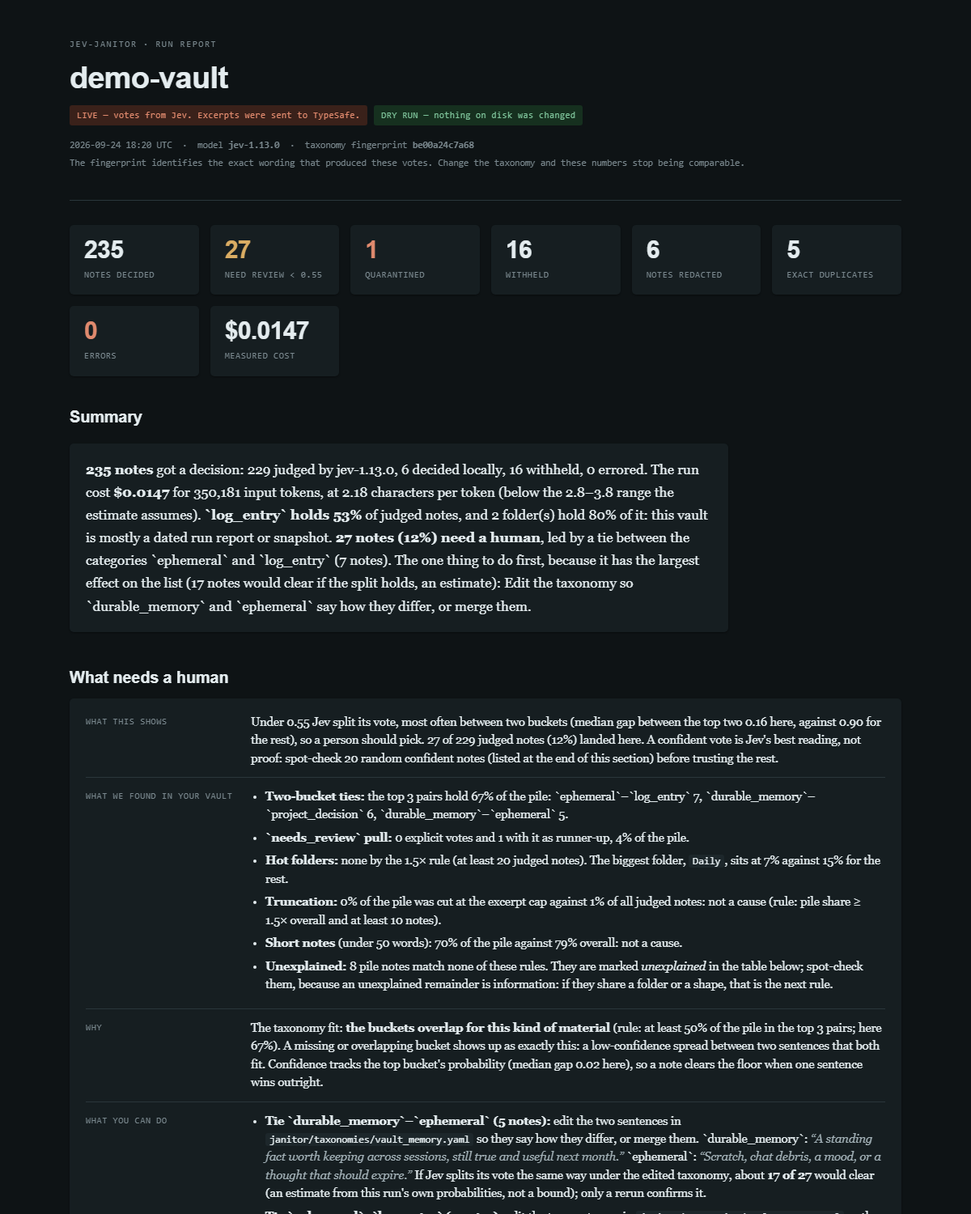
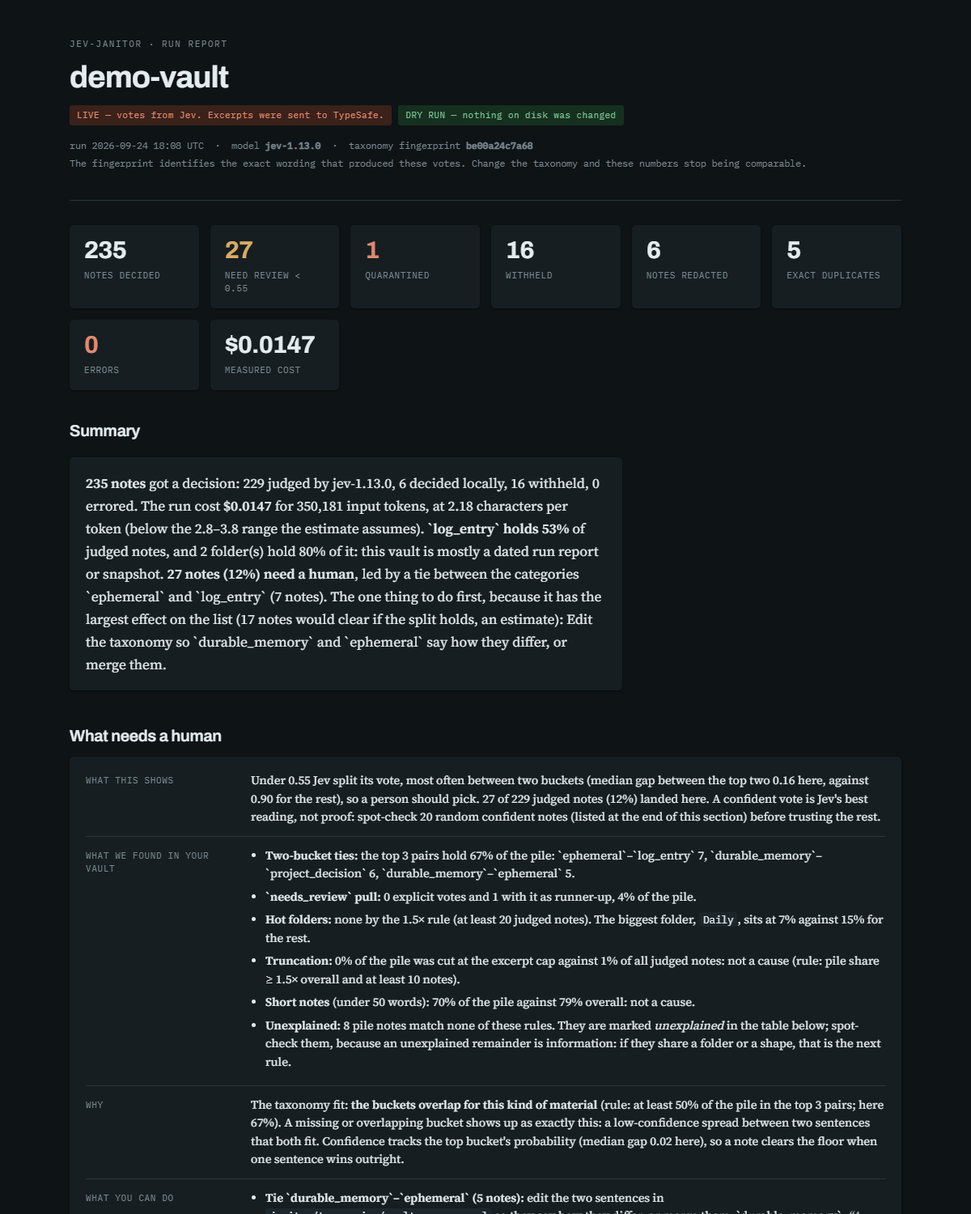
jev-the-janitor 0.5.1: the report runs on Python 3.11 again
0.5.0's report module put a backslash inside an f-string replacement field,
which Python accepts only from 3.12, so on 3.11 (the declared floor) --html
raised a SyntaxError and the test suite failed. The scanner itself was
unaffected: the CLI imports the report only when --html is given. The chips
are now built outside the f-string, and a new test checks every f-string in
the package and tests against 3.11's rules (no backslash, comment or reused
enclosing quote inside a replacement field) on any interpreter.

The card's header now shows the run's own time, taken from the rows' stamps
and labelled as such, instead of the time the page was rendered. The demo
card and screenshot were re-rendered from the same committed run.

No change to what is sent. STATE_VERSION 14, fingerprint unchanged.

diff --git a/examples/demo-vault-run/report.html b/examples/demo-vault-run/report.html
@@ -121,7 +121,7 @@ footer{margin-top:50px;padding-top:20px;border-top:1px solid var(--rule);font-fa
   <h1>demo-vault</h1>
   <div class="chips"><span class="chip live">LIVE — votes from Jev. Excerpts were sent to TypeSafe.</span><span class="chip ok">DRY RUN — nothing on disk was changed</span></div>
   <p class="meta">
-    2026-09-24 18:20 UTC &nbsp;·&nbsp; model <strong>jev-1.13.0</strong> &nbsp;·&nbsp; taxonomy fingerprint <strong>be00a24c7a68</strong><br>
+    run 2026-09-24 18:08 UTC &nbsp;·&nbsp; model <strong>jev-1.13.0</strong> &nbsp;·&nbsp; taxonomy fingerprint <strong>be00a24c7a68</strong><br>
     The fingerprint identifies the exact wording that produced these votes. Change the taxonomy and these numbers stop being comparable.
   </p>
 </header>
@@ -383,7 +383,7 @@ footer{margin-top:50px;padding-top:20px;border-top:1px solid var(--rule);font-fa
         <div class="barlabel"><span class="bname">junk</span><span class="bnote">empty, boilerplate, noise</span></div>
         <div class="bartrack"><div class="barfill" style="width:4.13%"></div></div>
         <div class="barval">5</div>
-      </div></div></section><section id='membrane'><h2>The membrane</h2><div class="explain"><div class="ex"><span class="exk">What this shows</span><div class="exv">What the run refused to send, which redaction patterns fired on what it did send, and which notes were quarantined. Values never appear here, only labels and counts.</div></div><div class="ex"><span class="exk">What we found in your vault</span><div class="exv"><ul><li><strong>Withheld:</strong> sensitive_path 16 (16 notes never read for a live call).</li><li><strong>Decided locally without a call:</strong> exact duplicate 5, local redaction hit 1.</li><li><strong>Redaction hits by label:</strong> [EMAIL] 3, [PHONE] 3, [URL_CREDENTIAL] 1 (6 notes carried at least one).</li><li><strong>Quarantines by trigger:</strong> local:URL_CREDENTIAL 1 (1 notes).</li><li><strong>Exact duplicates:</strong> 5 notes are byte-identical to an earlier one.</li></ul></div></div><div class="ex"><span class="exk">Why</span><div class="exv">Withheld notes matched a sensitive folder name; local decisions cost nothing and are never served from cache. Two kinds of quarantine: <strong>1 on a local hit</strong> (a machine-checkable credential format in the note's own title, aliases, path, key names or body, decided before any vote; trigger <code>local:…</code>) and <strong>0 on Jev's vote</strong> (<code>contains_secret</code> at or above 0.7, decided after the vote).</div></div><div class="ex"><span class="exk">What you can do</span><div class="exv"><ul><li><strong>Local hits (1): a credential-shaped string sat in the note. If it is real, rotate it.</strong> The token names the format, so you know which system's key to rotate; documentation examples such as AWS's <code>…EXAMPLEKEY</code> are common and are not real. Under <code>--apply</code> the note moves to <code>_janitor/quarantine/</code>, git-ignored.</li><li>Tune <code>--sensitive-paths</code> if a withheld folder should be scanned, or a scanned one should not; the flag replaces the list, so always pass the whole list with it (<code>--sensitive-paths family,private,personal,secrets,inbox,&lt;name&gt;</code>; the 5 names before it are the list this run actually used, read from this run&#x27;s sensitive list (5 names), because the flag replaces the list rather than extending it); the pre-flight names every folder it skips.</li><li>Add names and codenames to the denylist: they match whole words across line breaks and become `[NAME]`.</li></ul></div></div><div class="ex"><span class="exk">What would make it better</span><div class="exv">Optional: read <code>--offline --json --show-payload</code> once and check the `sent.excerpt` field by eye; regexes miss things.</div></div></div><h3>Quarantined</h3><div class="tablewrap"><table><thead><tr><th>note</th><th>trigger</th><th>own hits</th></tr></thead><tbody><tr><td class="path">Projects/Home Network/Sensor database.md</td><td><span class='chip small crit'>local:URL_CREDENTIAL</span></td><td class="why">URL_CREDENTIAL</td></tr></tbody></table></div><h3>Withheld</h3><div class="tablewrap"><table><thead><tr><th>withheld note</th><th>rule</th></tr></thead><tbody><tr><td class="path">Inbox/inbox 1.md</td><td><span class="chip small crit">sensitive_path</span></td></tr><tr><td class="path">Inbox/inbox 10.md</td><td><span class="chip small crit">sensitive_path</span></td></tr><tr><td class="path">Inbox/inbox 2.md</td><td><span class="chip small crit">sensitive_path</span></td></tr><tr><td class="path">Inbox/inbox 3.md</td><td><span class="chip small crit">sensitive_path</span></td></tr><tr><td class="path">Inbox/inbox 4.md</td><td><span class="chip small crit">sensitive_path</span></td></tr><tr><td class="path">Inbox/inbox 5.md</td><td><span class="chip small crit">sensitive_path</span></td></tr><tr><td class="path">Inbox/inbox 6.md</td><td><span class="chip small crit">sensitive_path</span></td></tr><tr><td class="path">Inbox/inbox 7.md</td><td><span class="chip small crit">sensitive_path</span></td></tr><tr><td class="path">Inbox/inbox 8.md</td><td><span class="chip small crit">sensitive_path</span></td></tr><tr><td class="path">Inbox/inbox 9.md</td><td><span class="chip small crit">sensitive_path</span></td></tr><tr><td class="path">personal/Contacts.md</td><td><span class="chip small crit">sensitive_path</span></td></tr><tr><td class="path">personal/Gift ideas.md</td><td><span class="chip small crit">sensitive_path</span></td></tr><tr><td class="path">personal/Journal 2024-02.md</td><td><span class="chip small crit">sensitive_path</span></td></tr><tr><td class="path">personal/Journal 2025-06.md</td><td><span class="chip small crit">sensitive_path</span></td></tr><tr><td class="path">personal/Medical.md</td><td><span class="chip small crit">sensitive_path</span></td></tr><tr><td class="path">personal/Wishlist.md</td><td><span class="chip small crit">sensitive_path</span></td></tr></tbody></table></div></section><section id='errors'><h2>Errors</h2><div class="explain"><div class="ex"><span class="exk">What this shows</span><div class="exv">Notes whose call failed, by exception class. An error row has no vote; the note is held, not decided.</div></div><div class="ex"><span class="exk">What we found in your vault</span><div class="exv"><ul><li>No errors.</li></ul></div></div></div></section><section id='cost'><h2>Cost and measurement</h2><div class="explain"><div class="ex"><span class="exk">What this shows</span><div class="exv">What this run cost, and how the API's own token count compares with the 3.8 down to 2.8 characters-per-token range the pre-flight estimate assumes.</div></div><div class="ex"><span class="exk">What we found in your vault</span><div class="exv"><ul><li><strong>$0.0147</strong> for 350,181 input tokens over 229 calls at $0.042 per million (input only: one invoice check put any output-token charge under about $0.005 per million).</li><li><strong>Measured: 2.18 characters per token</strong> (285,007 payload characters plus 2,086 question characters per call, over the tokens the API counted), <strong>below</strong> the assumed range. The pre-flight would have estimated $0.0084 to $0.0114 for this payload.</li></ul></div></div><div class="ex"><span class="exk">Why</span><div class="exv">This vault tokenizes more densely than prose (logs, ids, code), so the pessimistic end of the estimate was light by 29%; the spend meter is what protects the bill on a vault like this.</div></div><div class="ex"><span class="exk">What you can do</span><div class="exv"><ul><li>A vault this size needs <code>--max-usd 0.50</code> or more (the larger of this bill and the pessimistic estimate, rounded up to $0.50); the default ceiling is $2.00 and refuses a bill whose pessimistic end is above it.</li><li>The next scan with <code>--resume</code> sends only notes that changed, so the bill above is the ceiling, not the recurring cost, with one exception: a taxonomy, model or STATE_VERSION change re-sends everything at full price ($0.0147 at this run's rate). The first action in the checklist below is a taxonomy edit, and the 0.4.7 release already moved STATE_VERSION, so the next scan is full price either way.</li></ul></div></div></div></section><section id='graph'><h2>Graph and age</h2><div class="explain"><div class="ex"><span class="exk">What this shows</span><div class="exv">Graph facts are counts computed locally (links out and in, embeds, headings, words) plus an age in days; they are sent as numbers so Jev can tell a map of content from an orphan.</div></div><div class="ex"><span class="exk">What we found in your vault</span><div class="exv"><ul><li><strong>32% of judged notes link out at all.</strong> 150 notes have no links in and are reported as orphans.</li><li><strong>Age sources:</strong> frontmatter 208, mtime 21. 9% of notes read as 0 days old.</li></ul></div></div><div class="ex"><span class="exk">Why</span><div class="exv">A vault that references notes by path rather than by link has no graph to measure, and a subfolder scan cannot see links from the rest of the vault. Filesystem ages reset when a vault is moved, restored or re-synced, so a whole vault can read as brand new.</div></div></div></section><section id='next'><h2>Next scan</h2><p class='dek'>The concrete actions from the sections above, ordered by estimated impact: notes that would clear from the pile if Jev splits its vote the same way under the edit, or dollars saved per scan. Together they touch 23 distinct pile notes of 27; where two actions share notes, the overlap is stated. Only a rerun confirms any of it.</p><div class="tablewrap"><table><thead><tr><th>#</th><th>action</th><th>estimated effect</th><th>cost</th></tr></thead><tbody><tr><td class="num">1</td><td>Edit the taxonomy so `durable_memory` and `ephemeral` say how they differ, or merge them.</td><td class="num">17 notes that would clear if the split holds (estimate)</td><td class="why">the next scan is the whole vault at full price, $0.0147 at this run&#x27;s measured rate, because a taxonomy edit changes the fingerprint and every cache key misses</td></tr><tr><td class="num">2</td><td>Reword the `needs_review` sentence in the taxonomy so it is a last resort, not a peer of the other buckets.</td><td class="num">1 pile notes with needs_review on top or runner-up<br><span class="muted">1 of these notes are already counted by an action above; mostly the same fix seen twice</span></td><td class="why">the next scan is the whole vault at full price, $0.0147 at this run&#x27;s measured rate, because a taxonomy edit changes the fingerprint and every cache key misses</td></tr><tr><td class="num">3</td><td>If the 2 folder(s) holding 80% of `log_entry` are machine-generated, exclude them: <code>--sensitive-paths family,private,personal,secrets,inbox,Daily,Archive</code> withholds 2 of them with no other folder affected (the 5 names before it are the list this run actually used, read from this run&#x27;s sensitive list (5 names), because the flag replaces the list rather than extending it). If they are your own writing, leave them in.</td><td class="num">$0.0090 dollars per scan (measured)</td><td class="why">free; the next report is then about the notes you wrote</td></tr><tr><td class="num">4</td><td>Spot-check the 8 pile notes no rule explains: if they share a folder or a shape, that is the next rule.</td><td class="num">— <br><span class="muted">2 of these notes are already counted by an action above</span></td><td class="why">free</td></tr></tbody></table></div></section>
+      </div></div></section><section id='membrane'><h2>The membrane</h2><div class="explain"><div class="ex"><span class="exk">What this shows</span><div class="exv">What the run refused to send, which redaction patterns fired on what it did send, and which notes were quarantined. Values never appear here, only labels and counts.</div></div><div class="ex"><span class="exk">What we found in your vault</span><div class="exv"><ul><li><strong>Withheld:</strong> sensitive_path 16 (16 notes never read for a live call).</li><li><strong>Decided locally without a call:</strong> exact duplicate 5, local redaction hit 1.</li><li><strong>Redaction hits by label:</strong> [EMAIL] 3, [PHONE] 3, [URL_CREDENTIAL] 1 (6 notes carried at least one).</li><li><strong>Quarantines by trigger:</strong> local:URL_CREDENTIAL 1 (1 notes).</li><li><strong>Exact duplicates:</strong> 5 notes are byte-identical to an earlier one.</li></ul></div></div><div class="ex"><span class="exk">Why</span><div class="exv">Withheld notes matched a sensitive folder name; local decisions cost nothing and are never served from cache. Two kinds of quarantine: <strong>1 on a local hit</strong> (a machine-checkable credential format in the note's own title, aliases, path, key names or body, decided before any vote; trigger <code>local:…</code>) and <strong>0 on Jev's vote</strong> (<code>contains_secret</code> at or above 0.7, decided after the vote).</div></div><div class="ex"><span class="exk">What you can do</span><div class="exv"><ul><li><strong>Local hits (1): a credential-shaped string sat in the note. If it is real, rotate it.</strong> The token names the format, so you know which system's key to rotate; documentation examples such as AWS's <code>…EXAMPLEKEY</code> are common and are not real. Under <code>--apply</code> the note moves to <code>_janitor/quarantine/</code>, git-ignored.</li><li>Tune <code>--sensitive-paths</code> if a withheld folder should be scanned, or a scanned one should not; the flag replaces the list, so always pass the whole list with it (<code>--sensitive-paths family,private,personal,secrets,inbox,&lt;name&gt;</code>; the 5 names before it are the list this run actually used, read from this run&#x27;s sensitive list (5 names), because the flag replaces the list rather than extending it); the pre-flight names every folder it skips.</li><li>Add names and codenames to the denylist: they match whole words across line breaks and become `[NAME]`.</li></ul></div></div><div class="ex"><span class="exk">What would make it better</span><div class="exv">Optional: read <code>--offline --json --show-payload</code> once and check the `sent.excerpt` field by eye; regexes miss things.</div></div></div><h3>Quarantined</h3><div class="tablewrap"><table><thead><tr><th>note</th><th>trigger</th><th>own hits</th></tr></thead><tbody><tr><td class="path">Projects/Home Network/Sensor database.md</td><td><span class="chip small crit">local:URL_CREDENTIAL</span></td><td class="why">URL_CREDENTIAL</td></tr></tbody></table></div><h3>Withheld</h3><div class="tablewrap"><table><thead><tr><th>withheld note</th><th>rule</th></tr></thead><tbody><tr><td class="path">Inbox/inbox 1.md</td><td><span class="chip small crit">sensitive_path</span></td></tr><tr><td class="path">Inbox/inbox 10.md</td><td><span class="chip small crit">sensitive_path</span></td></tr><tr><td class="path">Inbox/inbox 2.md</td><td><span class="chip small crit">sensitive_path</span></td></tr><tr><td class="path">Inbox/inbox 3.md</td><td><span class="chip small crit">sensitive_path</span></td></tr><tr><td class="path">Inbox/inbox 4.md</td><td><span class="chip small crit">sensitive_path</span></td></tr><tr><td class="path">Inbox/inbox 5.md</td><td><span class="chip small crit">sensitive_path</span></td></tr><tr><td class="path">Inbox/inbox 6.md</td><td><span class="chip small crit">sensitive_path</span></td></tr><tr><td class="path">Inbox/inbox 7.md</td><td><span class="chip small crit">sensitive_path</span></td></tr><tr><td class="path">Inbox/inbox 8.md</td><td><span class="chip small crit">sensitive_path</span></td></tr><tr><td class="path">Inbox/inbox 9.md</td><td><span class="chip small crit">sensitive_path</span></td></tr><tr><td class="path">personal/Contacts.md</td><td><span class="chip small crit">sensitive_path</span></td></tr><tr><td class="path">personal/Gift ideas.md</td><td><span class="chip small crit">sensitive_path</span></td></tr><tr><td class="path">personal/Journal 2024-02.md</td><td><span class="chip small crit">sensitive_path</span></td></tr><tr><td class="path">personal/Journal 2025-06.md</td><td><span class="chip small crit">sensitive_path</span></td></tr><tr><td class="path">personal/Medical.md</td><td><span class="chip small crit">sensitive_path</span></td></tr><tr><td class="path">personal/Wishlist.md</td><td><span class="chip small crit">sensitive_path</span></td></tr></tbody></table></div></section><section id='errors'><h2>Errors</h2><div class="explain"><div class="ex"><span class="exk">What this shows</span><div class="exv">Notes whose call failed, by exception class. An error row has no vote; the note is held, not decided.</div></div><div class="ex"><span class="exk">What we found in your vault</span><div class="exv"><ul><li>No errors.</li></ul></div></div></div></section><section id='cost'><h2>Cost and measurement</h2><div class="explain"><div class="ex"><span class="exk">What this shows</span><div class="exv">What this run cost, and how the API's own token count compares with the 3.8 down to 2.8 characters-per-token range the pre-flight estimate assumes.</div></div><div class="ex"><span class="exk">What we found in your vault</span><div class="exv"><ul><li><strong>$0.0147</strong> for 350,181 input tokens over 229 calls at $0.042 per million (input only: one invoice check put any output-token charge under about $0.005 per million).</li><li><strong>Measured: 2.18 characters per token</strong> (285,007 payload characters plus 2,086 question characters per call, over the tokens the API counted), <strong>below</strong> the assumed range. The pre-flight would have estimated $0.0084 to $0.0114 for this payload.</li></ul></div></div><div class="ex"><span class="exk">Why</span><div class="exv">This vault tokenizes more densely than prose (logs, ids, code), so the pessimistic end of the estimate was light by 29%; the spend meter is what protects the bill on a vault like this.</div></div><div class="ex"><span class="exk">What you can do</span><div class="exv"><ul><li>A vault this size needs <code>--max-usd 0.50</code> or more (the larger of this bill and the pessimistic estimate, rounded up to $0.50); the default ceiling is $2.00 and refuses a bill whose pessimistic end is above it.</li><li>The next scan with <code>--resume</code> sends only notes that changed, so the bill above is the ceiling, not the recurring cost, with one exception: a taxonomy, model or STATE_VERSION change re-sends everything at full price ($0.0147 at this run's rate). The first action in the checklist below is a taxonomy edit, and the 0.4.7 release already moved STATE_VERSION, so the next scan is full price either way.</li></ul></div></div></div></section><section id='graph'><h2>Graph and age</h2><div class="explain"><div class="ex"><span class="exk">What this shows</span><div class="exv">Graph facts are counts computed locally (links out and in, embeds, headings, words) plus an age in days; they are sent as numbers so Jev can tell a map of content from an orphan.</div></div><div class="ex"><span class="exk">What we found in your vault</span><div class="exv"><ul><li><strong>32% of judged notes link out at all.</strong> 150 notes have no links in and are reported as orphans.</li><li><strong>Age sources:</strong> frontmatter 208, mtime 21. 9% of notes read as 0 days old.</li></ul></div></div><div class="ex"><span class="exk">Why</span><div class="exv">A vault that references notes by path rather than by link has no graph to measure, and a subfolder scan cannot see links from the rest of the vault. Filesystem ages reset when a vault is moved, restored or re-synced, so a whole vault can read as brand new.</div></div></div></section><section id='next'><h2>Next scan</h2><p class='dek'>The concrete actions from the sections above, ordered by estimated impact: notes that would clear from the pile if Jev splits its vote the same way under the edit, or dollars saved per scan. Together they touch 23 distinct pile notes of 27; where two actions share notes, the overlap is stated. Only a rerun confirms any of it.</p><div class="tablewrap"><table><thead><tr><th>#</th><th>action</th><th>estimated effect</th><th>cost</th></tr></thead><tbody><tr><td class="num">1</td><td>Edit the taxonomy so `durable_memory` and `ephemeral` say how they differ, or merge them.</td><td class="num">17 notes that would clear if the split holds (estimate)</td><td class="why">the next scan is the whole vault at full price, $0.0147 at this run&#x27;s measured rate, because a taxonomy edit changes the fingerprint and every cache key misses</td></tr><tr><td class="num">2</td><td>Reword the `needs_review` sentence in the taxonomy so it is a last resort, not a peer of the other buckets.</td><td class="num">1 pile notes with needs_review on top or runner-up<br><span class="muted">1 of these notes are already counted by an action above; mostly the same fix seen twice</span></td><td class="why">the next scan is the whole vault at full price, $0.0147 at this run&#x27;s measured rate, because a taxonomy edit changes the fingerprint and every cache key misses</td></tr><tr><td class="num">3</td><td>If the 2 folder(s) holding 80% of `log_entry` are machine-generated, exclude them: <code>--sensitive-paths family,private,personal,secrets,inbox,Daily,Archive</code> withholds 2 of them with no other folder affected (the 5 names before it are the list this run actually used, read from this run&#x27;s sensitive list (5 names), because the flag replaces the list rather than extending it). If they are your own writing, leave them in.</td><td class="num">$0.0090 dollars per scan (measured)</td><td class="why">free; the next report is then about the notes you wrote</td></tr><tr><td class="num">4</td><td>Spot-check the 8 pile notes no rule explains: if they share a folder or a shape, that is the next rule.</td><td class="num">— <br><span class="muted">2 of these notes are already counted by an action above</span></td><td class="why">free</td></tr></tbody></table></div></section>
 
 <section>
   <h2>Every note</h2>

diff --git a/tests/test_python_311_syntax.py b/tests/test_python_311_syntax.py
@@ -1,0 +1,95 @@
+"""Every .py in the package and the tests must compile on Python 3.11, the floor in pyproject.
+
+0.5.0 shipped an f-string with a backslash inside a replacement field, which 3.12 accepts
+(PEP 701) and 3.11 rejects at import, so the suite failed on the 3.11 CI runners after every
+local run had been on a newer interpreter. This test runs on 3.12+ and re-applies 3.11's rules
+to every f-string with the tokenizer, which on 3.12+ splits f-strings into FSTRING_START,
+FSTRING_MIDDLE and FSTRING_END with ordinary tokens for the expression parts. Inside a
+replacement field, 3.11 refuses:
+
+  * a backslash anywhere, including inside a nested string literal;
+  * the enclosing f-string's own quote (or its triple, for a triple-quoted f-string);
+  * a ``#`` anywhere, including inside a nested string literal;
+  * a line break, unless the f-string is triple-quoted.
+
+Each rule applies to every enclosing f-string, not only the innermost, because 3.11 read the
+outermost f-string as one string token. On 3.11 itself the interpreter is the check, so the
+test skips there.
+"""
+from __future__ import annotations
+
+import io
+import sys
+import tokenize
+from pathlib import Path
+
+import pytest
+
+ROOT = Path(__file__).resolve().parent.parent
+SOURCE_DIRS = ("janitor", "tests")
+
+
+def python_files():
+    for d in SOURCE_DIRS:
+        yield from sorted((ROOT / d).rglob("*.py"))
+
+
+def quote_of(fstring_start: str) -> str:
+    """The quote sequence that opens an f-string: one of ' " ''' \"\"\"."""
+    text = fstring_start.lstrip("fFrRbBuU")
+    return text[:3] if text[:3] in ("'''", '"""') else text[:1]
+
+
+def violations_in(source: str, name: str):
+    found = []
+    stack = []  # (quote, start_row) of every open f-string, outermost first
+    tokens = tokenize.generate_tokens(io.StringIO(source).readline)
+    for tok in tokens:
+        kind, text, (row, col) = tok.type, tok.string, tok.start
+        where = f"{name}:{row}:{col + 1}"
+        if kind == tokenize.FSTRING_END:
+            stack.pop()
+            continue
+        if kind == tokenize.FSTRING_MIDDLE:
+            enclosing = stack[:-1]  # its own literal text is fine; it sits inside the OUTER expressions
+        else:
+            enclosing = list(stack)
+        for quote, start_row in enclosing:
+            if "\\" in text:
+                found.append(f"{where}: backslash inside an f-string replacement field ({text!r})")
+            if "#" in text:
+                found.append(f"{where}: '#' inside an f-string replacement field ({text!r})")
+            if quote in text:
+                found.append(f"{where}: the enclosing f-string's quote {quote} reused inside its replacement field ({text!r})")
+            if len(quote) == 1 and (row != start_row or kind in (tokenize.NL, tokenize.NEWLINE)):
+                found.append(f"{where}: a replacement field of a single-quoted f-string spans lines")
+        if kind == tokenize.FSTRING_START:
+            stack.append((quote_of(text), row))
+    return found
+
+
+@pytest.mark.skipif(sys.version_info < (3, 12), reason="on 3.11 the interpreter itself is the check")
+def test_every_fstring_compiles_on_python_311():
+    problems = []
+    for path in python_files():
+        problems += violations_in(path.read_text(encoding="utf-8"), path.relative_to(ROOT).as_posix())
+    assert not problems, "\n".join(problems)
+
+
+@pytest.mark.skipif(sys.version_info < (3, 12), reason="on 3.11 the interpreter itself is the check")
+def test_the_guard_catches_each_rule():
+    # the shape that shipped in 0.5.0: a backslash-escaped quote inside a nested string
+    assert any("backslash" in v for v in violations_in('x = f"{" ".join(f"<i class=\\\'a\\\'>{t}</i>" for t in y)}"\n', "s"))
+    # the same quote reused inside the field
+    assert any("quote" in v for v in violations_in('x = f"{d["k"]}"\n', "s"))
+    # a comment character inside a nested string
+    assert any("'#'" in v for v in violations_in("x = f\"{'#'}\"\n", "s"))
+    # a field that spans lines in a single-quoted f-string
+    assert any("spans lines" in v for v in violations_in('x = f"{(1 +\n 2)}"\n', "s"))
+    # and the shapes 3.11 accepts
+    assert violations_in('x = f"{d[\'k\']} {\' \'.join(y)}"\n', "s") == []
+    assert violations_in('x = f"""{d["k"]}"""\n', "s") == []
+    assert violations_in('x = f"""{(1 +\n 2)}"""\n', "s") == []
+    assert violations_in('x = f"a\\nb {y}"\n', "s") == []  # a backslash in the literal part is fine
+    assert violations_in('x = f"{y}" f\'{z["k"]}\'\n', "s") == []  # concatenated pieces keep their own quotes
+    assert violations_in("x = f'{f\"{y}\"}'\n", "s") == []  # a nested f-string with the other quote

diff --git a/janitor/report.py b/janitor/report.py
@@ -829,8 +829,10 @@ def section_d(D, skips):
     can.append(f"Tune <code>--sensitive-paths</code> if a withheld folder should be scanned, or a scanned one should not; the flag replaces the list, so always pass the whole list with it (<code>--sensitive-paths {esc(','.join(D['sensitive_list']))},&lt;name&gt;</code>; {list_note(D)}); the pre-flight names every folder it skips.")
     can.append("Add names and codenames to the denylist: they match whole words across line breaks and become `[NAME]`.")
     better = "Optional: read <code>--offline --json --show-payload</code> once and check the `sent.excerpt` field by eye; regexes miss things."
+    def trigger_chips(r):  # built outside the f-string: a backslash inside a replacement field is a SyntaxError before 3.12
+        return " ".join('<span class="chip small crit">' + esc(t) + "</span>" for t in (r.get("quarantine_triggers") or []))
     q_html = "".join(
-        f'<tr><td class="path">{esc(r["path"])}</td><td>{" ".join(f"<span class=\'chip small crit\'>{esc(t)}</span>" for t in (r.get("quarantine_triggers") or []))}</td><td class="why">{esc(", ".join(r.get("redacted_own") or []))}</td></tr>'
+        f'<tr><td class="path">{esc(r["path"])}</td><td>{trigger_chips(r)}</td><td class="why">{esc(", ".join(r.get("redacted_own") or []))}</td></tr>'
         for r in D["quarantined"]) or '<tr><td colspan="3" class="empty">No quarantines.</td></tr>'
     s_html = "".join(
         f'<tr><td class="path">{esc(r["path"])}</td><td><span class="chip small crit">{esc(r.get("skipped") or r.get("reason") or r.get("action"))}</span></td></tr>'
@@ -944,7 +946,7 @@ def build(rows, vault_name, out_path, journal_header=None, sensitive_list=None, 
 
     page = TEMPLATE.format(
         vault=esc(vault_name),
-        when=datetime.now(timezone.utc).strftime("%Y-%m-%d %H:%M UTC"),
+        when=when_label(rows),
         mode_chip=mode_chip, write_chip=write_chip,
         model=esc(D["model"]), taxonomy=esc(D["taxonomy"]),
         total=D["n_votes"], n_review=D["n_pile"], n_quarantine=len(D["quarantined"]), n_skipped=D["n_withheld"],
@@ -954,6 +956,24 @@ def build(rows, vault_name, out_path, journal_header=None, sensitive_list=None, 
     with open(out_path, "w", encoding="utf-8", newline="\n") as fh:
         fh.write(page)
     return out_path, D
+
+
+def run_time(rows):
+    """The run's own clock: the latest ``at`` stamp on any row (ISO 8601 UTC), or None."""
+    stamps = [r.get("at") for r in rows if isinstance(r, dict) and isinstance(r.get("at"), str)]
+    return max(stamps) if stamps else None
+
+
+def when_label(rows):
+    """'run 2026-09-24 18:08 UTC' from the rows' own stamps; the render time, labelled, when they carry none."""
+    stamp = run_time(rows)
+    if stamp:
+        try:
+            t = datetime.fromisoformat(stamp.replace("Z", "+00:00")).astimezone(timezone.utc)
+            return "run " + t.strftime("%Y-%m-%d %H:%M UTC")
+        except ValueError:
+            pass
+    return "rendered " + datetime.now(timezone.utc).strftime("%Y-%m-%d %H:%M UTC") + " (the rows carry no time stamps)"
 
 
 TEMPLATE = r"""<!doctype html>

diff --git a/tests/test_report.py b/tests/test_report.py
@@ -767,3 +767,21 @@ def test_committed_demo_run_is_consistent_with_its_card_and_the_readme():
     demo_paths = {p.relative_to(DEMO).as_posix() for p in DEMO.rglob("*.md")}
     assert {r["path"] for r in rows} <= demo_paths
     assert not re.search(r"[A-Za-z]:\\\\|/Users/|/home/", (RUN_DIR / "report.html").read_text(encoding="utf-8"))
+    # the header carries the run's own time, labelled as the run, not the time the page was rendered
+    assert R.run_time(rows) == max(r["at"] for r in rows if "at" in r)
+    assert "run 2026-09-24 18:08 UTC" in page and "rendered " not in page
+
+
+# --- 0.5.1: the header time is the run's, from the rows' stamps; a stampless run says so ------------
+
+def test_header_time_is_the_runs_latest_stamp_or_says_it_is_the_render_time():
+    rows = [vote("a.md", "junk", {"junk": 0.9}), vote("b.md", "junk", {"junk": 0.9}), {"kind": "skip", "path": "c.md", "skipped": "sensitive_path"}]
+    assert R.run_time(rows) is None
+    assert R.when_label(rows).startswith("rendered ") and "no time stamps" in R.when_label(rows)
+    rows[0]["at"] = "2026-01-02T03:04:05Z"
+    rows[1]["at"] = "2026-01-02T03:59:59Z"
+    rows[2]["at"] = "2026-01-02T03:30:00Z"
+    assert R.run_time(rows) == "2026-01-02T03:59:59Z"
+    assert R.when_label(rows) == "run 2026-01-02 03:59 UTC"
+    rows[1]["at"] = "not a time"
+    assert R.when_label(rows).startswith("rendered ")

diff --git a/janitor/__init__.py b/janitor/__init__.py
@@ -1,3 +1,3 @@
 """Jev the Janitor: typed System One votes for markdown vault notes."""
 
-__version__ = "0.5.0"
+__version__ = "0.5.1"
